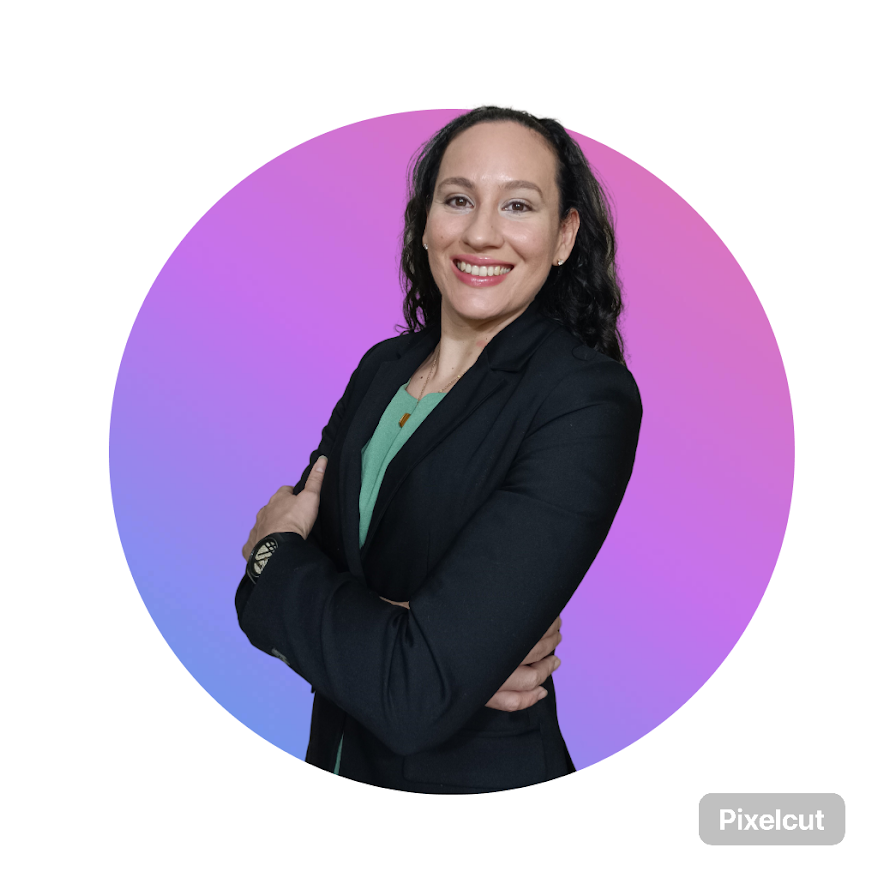
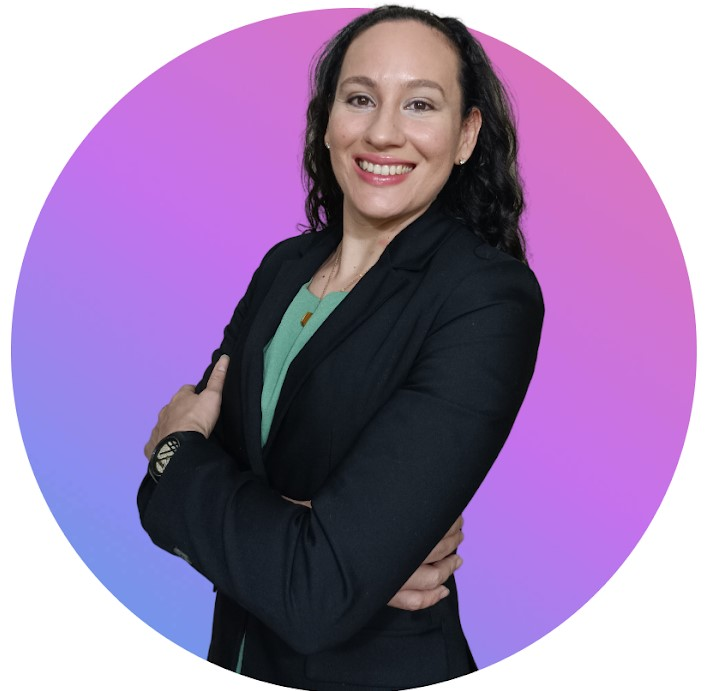
Updated content, changed styling

diff --git a/about.html b/about.html
@@ -54,13 +54,16 @@
     <div class="about-body">
       <div class="container about-wrapper">
         <div class="row">
-          <div class="col-6 align-items-stretch">
+          <div class="col align-items-stretch pt-3 pb-3">
             <h1 class="text-capitalize text-center">About me</h1>
 
             <p class="paragraph">
               Hi again! 👋 I'm Raquel Díaz—a Foreign Trade and Business
               professional and a Junior Front-end Developer with a love for
               everything related to technology. <br />
+
+              <img src="img/raquel.JPG" id="about-img" />
+
               <br />With 10 years of experience in imports and procurement
               across various sectors, I've honed my skills in negotiation,
               strategic planning, and maintaining high-quality standards. <br />
@@ -90,10 +93,6 @@
               >Check out my projects</a
             >
           </div>
-
-          <div class="col-6 align-items-stretch html-img-about">
-            <img src="img/raquel.JPG" class="img-fluid" id="about-img" />
-          </div>
         </div>
       </div>
       <section>
@@ -112,6 +111,7 @@
           <li>SEO</li>
           <li>Responsive</li>
           <li>React.js</li>
+          <li>Python</li>
         </ul>
       </section>
       <div class="container work-inquiry">
@@ -129,34 +129,34 @@
           </div>
         </div>
       </div>
+      <footer class="mt-5">
+        <hr />
+        <p class="sub-heading">Follow me on...</p>
+        <div class="text-center social-links">
+          <a
+            href="https://www.linkedin.com/in/raquel-d%C3%ADaz-barrios/"
+            target="_blank"
+            title="Raquel linkeding account"
+          >
+            <i class="fa-brands fa-linkedin"></i
+          ></a>
+          <a
+            href="https://github.com/RaquelD-B"
+            target="_blank"
+            title="Raquel github account"
+            ><i class="fa-brands fa-github"></i
+          ></a>
+        </div>
+        <hr />
+        <div class="footer-text text-center text-muted">
+          This project was coded by Raquel Díaz and is available on
+          <a
+            href="https://github.com/RaquelD-B/my-portfolio"
+            title="Github repository"
+            >GitHub</a
+          >
+        </div>
+      </footer>
     </div>
-    <footer class="mt-5">
-      <hr />
-      <p class="sub-heading">Follow me on...</p>
-      <div class="text-center social-links">
-        <a
-          href="https://www.linkedin.com/in/raquel-d%C3%ADaz-barrios/"
-          target="_blank"
-          title="Raquel linkeding account"
-        >
-          <i class="fa-brands fa-linkedin"></i
-        ></a>
-        <a
-          href="https://github.com/RaquelD-B"
-          target="_blank"
-          title="Raquel github account"
-          ><i class="fa-brands fa-github"></i
-        ></a>
-      </div>
-      <hr />
-      <div class="footer-text text-center text-muted">
-        This project was coded by Raquel Díaz and is available on
-        <a
-          href="https://github.com/RaquelD-B/my-portfolio"
-          title="Github repository"
-          >GitHub</a
-        >
-      </div>
-    </footer>
   </body>
 </html>

diff --git a/index.html b/index.html
@@ -199,35 +199,35 @@
           </div>
         </div>
       </div>
-    </div>
-    <footer>
-      <hr />
-      <p class="sub-heading">Follow me on...</p>
-      <div class="text-center social-links">
-        <a
-          href="https://www.linkedin.com/in/raquel-d%C3%ADaz-barrios/"
-          target="_blank"
-          title="Raquel linkeding account"
-        >
-          <i class="fa-brands fa-linkedin"></i
-        ></a>
-        <a
-          href="https://github.com/RaquelD-B"
-          target="_blank"
-          title="Raquel github account"
-          ><i class="fa-brands fa-github"></i
-        ></a>
-      </div>
-      <hr />
+      <footer>
+        <hr />
+        <p class="sub-heading">Follow me on...</p>
+        <div class="text-center social-links">
+          <a
+            href="https://www.linkedin.com/in/raquel-d%C3%ADaz-barrios/"
+            target="_blank"
+            title="Raquel linkeding account"
+          >
+            <i class="fa-brands fa-linkedin"></i
+          ></a>
+          <a
+            href="https://github.com/RaquelD-B"
+            target="_blank"
+            title="Raquel github account"
+            ><i class="fa-brands fa-github"></i
+          ></a>
+        </div>
+        <hr />
 
-      <div class="footer-text text-center text-muted">
-        This website was coded by Raquel Díaz and is available on
-        <a
-          href="https://github.com/RaquelD-B/my-portfolio"
-          title="Github repository"
-          >GitHub</a
-        >
-      </div>
-    </footer>
+        <div class="footer-text text-center text-muted">
+          This website was coded by Raquel Díaz and is available on
+          <a
+            href="https://github.com/RaquelD-B/my-portfolio"
+            title="Github repository"
+            >GitHub</a
+          >
+        </div>
+      </footer>
+    </div>
   </body>
 </html>

diff --git a/styles/styles.css b/styles/styles.css
@@ -1,5 +1,5 @@
 :root {
-  --primary-color: rgba(13, 110, 253, 0.7);
+  --primary-color: #e4e4d8;
   --linear-gradient-primary: linear-gradient(135deg, #f5f5f5, #e0e0d1);
   --primary-font-family: "Poppins", sans-serif;
   --secondary-font-family: "Roboto", sans-serif;
@@ -86,7 +86,7 @@ footer .social-links a:hover {
 }
 section {
   margin: 10px 0;
-  border: solid 1px #adc9f6;
+  border: solid 1px var(--primary-color);
   border-radius: 4px;
 }
 section h2 {
@@ -97,7 +97,8 @@ section ul {
   text-align: center;
 }
 section ul li {
-  background: #adc9f6;
+  background: rgba(0, 0, 0, 0.7);
+  color: white;
   display: inline-block;
   font-size: 20px;
   font-weight: 500;
@@ -110,9 +111,10 @@ section ul li {
 .about-btn {
   display: block;
   text-align: center !important;
+  margin: 20px 400px !important;
 }
 .about-wrapper {
-  margin-top: 20px;
+  margin-top: 50px;
 }
 .about-wrapper p {
   text-align: left;
@@ -166,9 +168,7 @@ section ul li {
 .html-img {
   background: #cfd8dc;
 }
-.html-img-about {
-  border: white 1px solid;
-}
+
 .img {
   width: 80%;
   display: block;
@@ -183,7 +183,7 @@ section ul li {
 }
 
 .paragraph {
-  text-align: justify !important;
+  text-align: left;
 }
 .paragraph,
 .contact-paragraph {
@@ -228,8 +228,10 @@ h2 {
 
 #about-img {
   border-radius: 50%;
+  border: white solid 5px;
   display: block;
   margin: auto;
+  max-width: 50%;
 }
 #resume {
   display: block;

diff --git a/contact.html b/contact.html
@@ -67,9 +67,8 @@
         target="_blank"
         >Raquel Díaz Barrios</a
       >
+      <hr />
     </div>
-
-    <hr />
     <footer>
       <p class="sub-heading">Follow me on...</p>
       <div class="text-center social-links">
